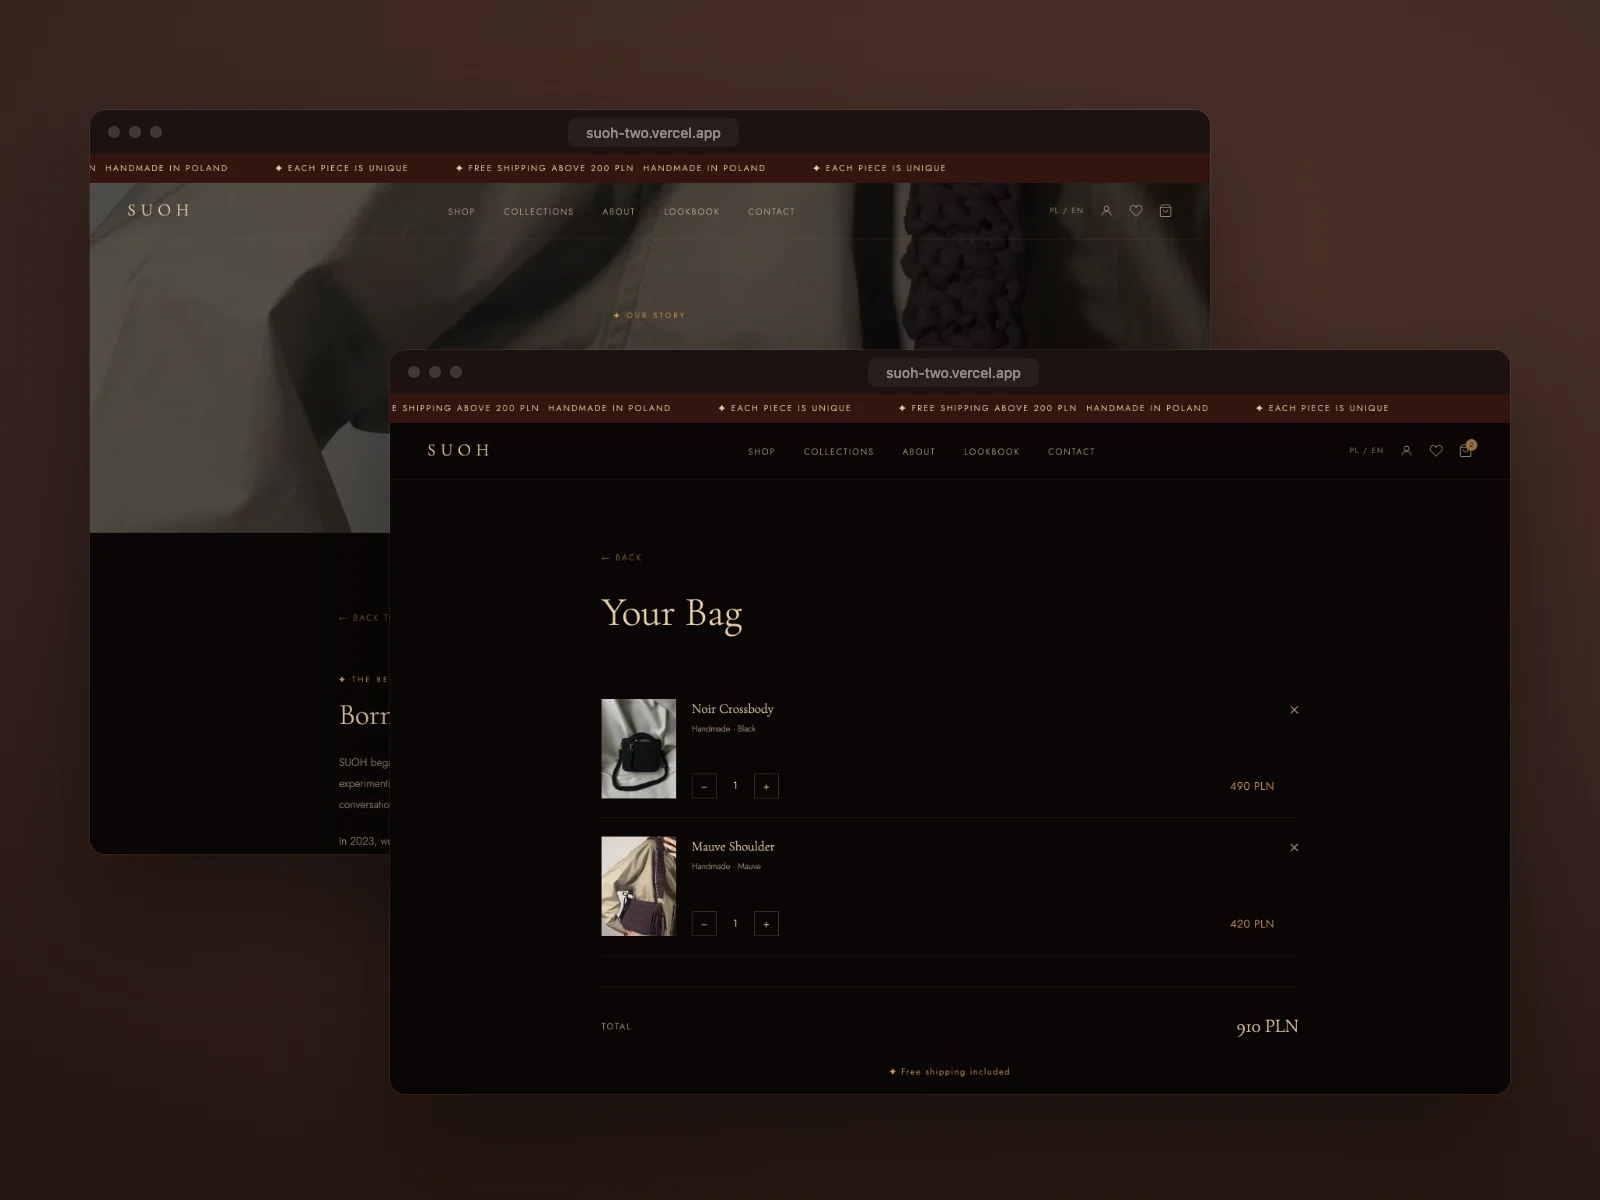
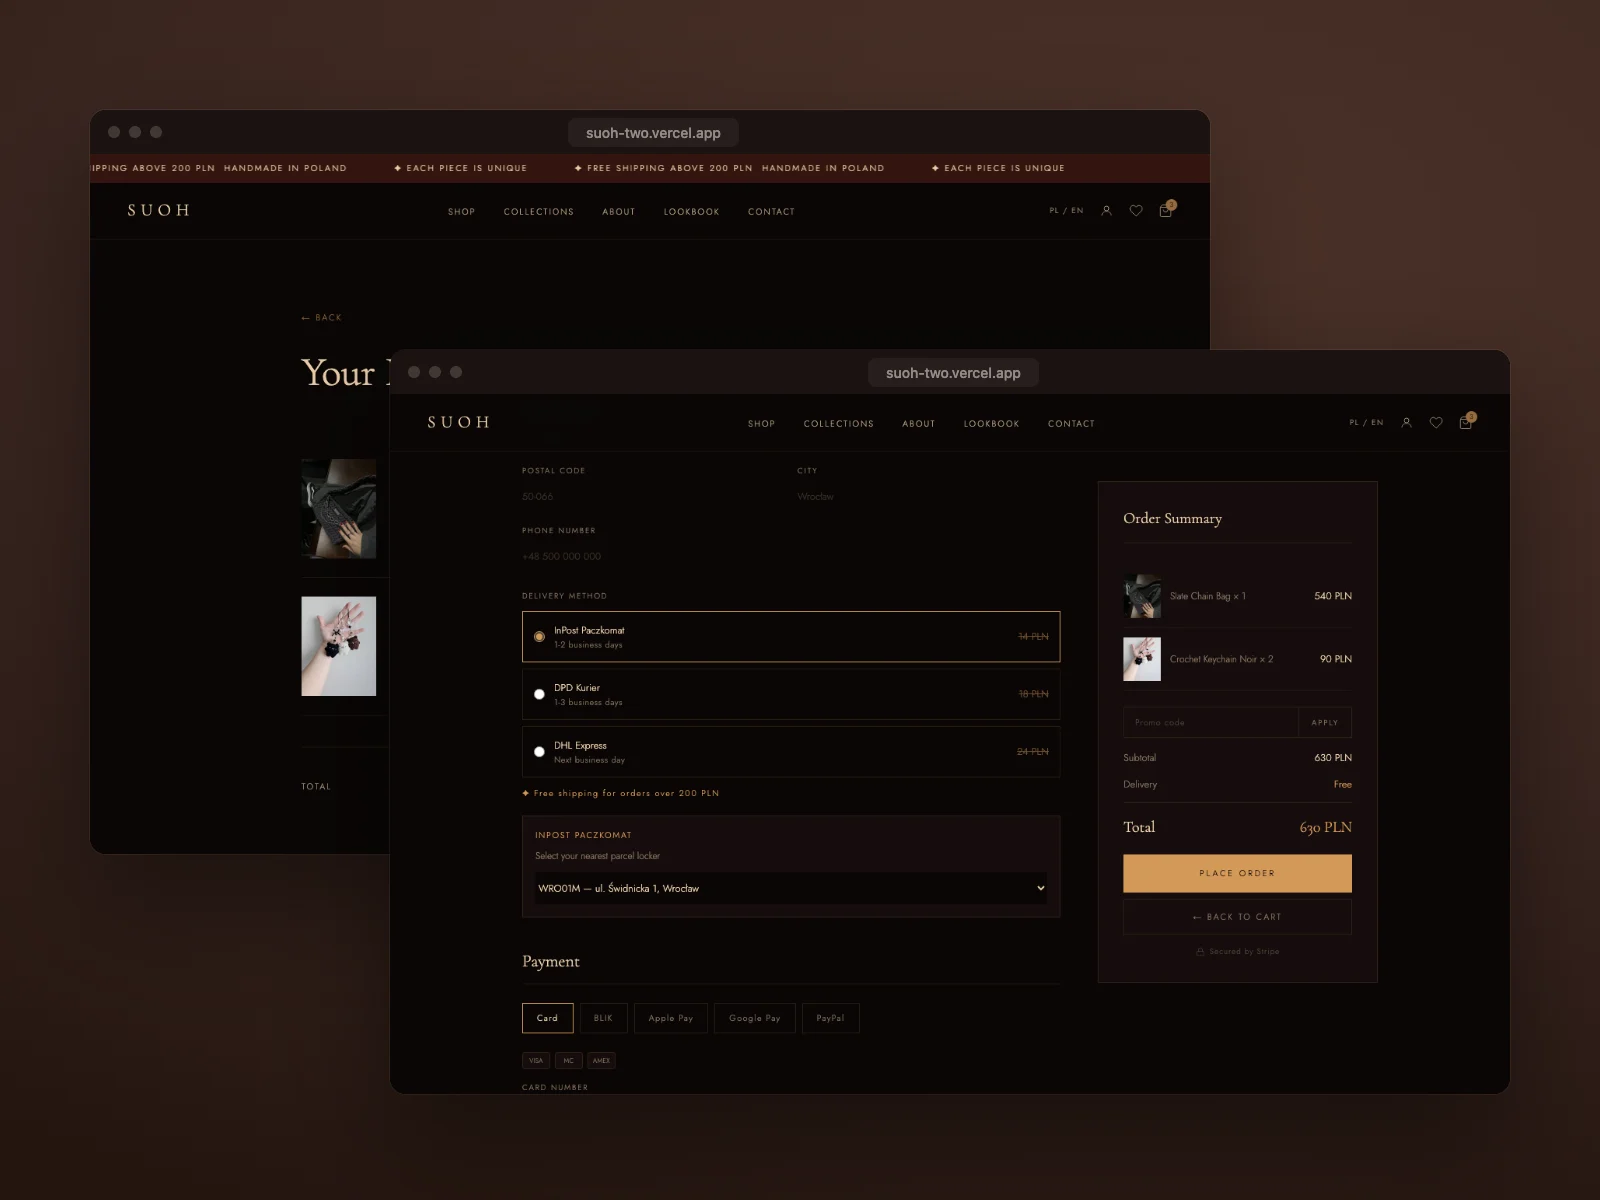
Update the SUOH case study with the brand brief and the checkout

diff --git a/src/cases.js b/src/cases.js
@@ -266,33 +266,34 @@ const RP = {
   },
 };
 
-/* SUOH, the shop for crochet bags. Shots are framed screenshots of
-   suoh-two.vercel.app (public/assets/cases/su); the hero is the site's own
-   first screen with the text hidden, so only the two bags are left. */
+/* SUOH, the shop for crochet bags (github.com/joanise-ux/suoh). Shots are
+   framed screenshots of suoh-two.vercel.app (public/assets/cases/su); the
+   cart and checkout in step 3 come from the project's own screenshots. The
+   cover is the first screen in a browser window. */
 const SU_DIR = "/assets/cases/su";
 const suPic = (file, alt) => ({ src: `${SU_DIR}/${file}`, alt });
 
 const SU = {
   pl: {
-    hero: suPic("su-hero.jpg", "Dwie szydełkowe torebki SUOH: brązowa na kamieniach nad wodą i granatowa na łańcuszku"),
+    hero: suPic("su-hero.jpg", "Pierwszy ekran sklepu SUOH w oknie przeglądarki: brązowa i granatowa torebka z szydełka"),
     meta: [
       ["Klient", "SUOH, Wrocław"],
       ["Rok", "2026"],
       ["Usługi", "UX/UI, e-commerce, front-end"],
-      ["Narzędzia", "Claude"],
+      ["Narzędzia", "Claude, Next.js, React, Tailwind CSS"],
     ],
     link: { label: "zobacz stronę", href: "https://suoh-two.vercel.app/" },
-    lead: "SUOH to jednoosobowa pracownia z Wrocławia, w której każda torebka, brelok i prezent powstają ręcznie na szydełku. Zaprojektowałam dla niej sklep, w którym rękodzieło wygląda jak sztuka, a kupuje się je jak w zwykłym sklepie.",
+    lead: "SUOH to wrocławska marka szydełkowych torebek, breloków i zestawów prezentowych. Każda rzecz powstaje ręcznie, więc każda jest jedyna. Zaprojektowałam i zbudowałam dla niej dwujęzyczny sklep, który wygląda jak butik przy przyciemnionym świetle i prowadzi klientkę od zdjęcia torebki aż do śledzenia paczki.",
     brief: [
-      ["Pytanie", "Jak sprzedawać rzeczy, z których każda jest jedyna, żeby sklep nie wyglądał jak kolejny marketplace z rękodziełem?"],
-      ["Cel", "Ciemna, spokojna strona, na której pierwsze skrzypce grają zdjęcia, a droga od torebki do koszyka zajmuje dwa kliknięcia."],
+      ["Pytanie", "Jak sprzedawać rzeczy, z których każda jest jedyna, żeby sklep czuł się jak cichy butik, a nie kolejny marketplace?"],
+      ["Cel", "Ciemna, ciepła strona, na której prowadzą zdjęcia, a zakupy działają jak w dużym sklepie: po polsku i angielsku, z Paczkomatem i BLIK-iem."],
     ],
     problem: {
-      eyebrow: "o projekcie",
-      title: "Rękodzieło, które nie chce wyglądać na tanie",
+      eyebrow: "o marce",
+      title: "Sztuka, którą nosisz",
       text: [
-        "Projektantka SUOH szydełkuje torebki z jedwabistego sznurka i wykańcza je metalowymi okuciami i własną blaszką z logo. Sprzedaż przez media społecznościowe i portale z rękodziełem sprawiała, że torebka za kilkaset złotych stała obok rzeczy za kilkanaście.",
-        "SUOH to mój projekt własny, zrobiony z myślą o niej. Hasło „Art you can carry”, czyli sztuka, którą nosisz, ustawiło cały kierunek. Projekt, treść i wszystkie decyzje są moje, a stronę złożyłam z pomocą AI, więc od razu działa: ma koszyk, ulubione i konto klienta.",
+        "SUOH szydełkuje torebki z poliestrowego sznurka jedwabnego i wykańcza je metalowymi okuciami i blaszką z logo. W ofercie są cztery torebki za 420–590 zł, breloki za 45 zł i dwa zestawy prezentowe. Marka mówi o sobie „Art you can carry”, czyli sztuka, którą nosisz, i to hasło ustawiło cały kierunek strony.",
+        "Sklep miał oddać charakter marki: ręczną robotę, spokój i ciepły luksus. Miał też przeprowadzić klientkę przez całe zakupy, działać na telefonie i w dwóch językach oraz pasować do polskich przyzwyczajeń, czyli Paczkomatów InPost, kuriera i BLIK-a. Projekt, treść i decyzje są moje, a kod napisałam z pomocą AI.",
       ],
       image: suPic("su-start.webp", "Pierwszy ekran sklepu SUOH na telefonie"),
     },
@@ -301,19 +302,19 @@ const SU = {
       title: "Trzy decyzje, które ułożyły sklep",
       steps: [
         {
-          title: "Ciemna galeria zamiast jasnego katalogu",
-          text: "Tło jest prawie czarne, a sekcje przeplatają się z głębokim brązem w odcieniu octu balsamicznego. Nagłówki są w szeryfowym Cormorant Garamond, drobne napisy w Jost z szerokim odstępem, a miedziany kolor zostaje tylko dla cen i przycisków. Dzięki temu faktura splotu na zdjęciach jest najjaśniejszym, co widać na ekranie.",
+          title: "Butik przy przyciemnionym świetle",
+          text: "Tło jest prawie czarne, sekcje przeplatają się z brązem w odcieniu octu balsamicznego, a tekst ma kolor szampana. Złoty odcień whisky zostaje dla cen, przycisków i cienkich linii zamiast ciężkich ramek. Nagłówki są w szeryfowym Cormorant Garamond, a nawigacja w lekkim Jost z szerokim odstępem. Dzięki temu najjaśniejsza na ekranie jest faktura splotu.",
           image: suPic("su-step-1.webp", "Pierwszy ekran sklepu z dwiema torebkami i hasłem Art you can carry"),
         },
         {
           title: "Karta produktu jak metryczka",
-          text: "W sklepie produkty dzielą się na torebki, breloki i prezenty, a filtry mieszczą się w jednym rzędzie. Na karcie jest nazwa, kolor, cena, z czego torebka jest zrobiona i jakie ma wymiary. Kupująca nie widzi torebki na żywo, więc dostaje wszystko, o co zapytałaby w pracowni.",
+          text: "Sklep dzieli się na torebki, breloki i prezenty, a filtry mieszczą się w jednym rzędzie. Na karcie jest nazwa, kolor, cena, materiał i wymiary. Kupująca nie dotknie torebki, więc dostaje wszystko, o co zapytałaby w pracowni. Koszyk i lista ulubionych działają bez logowania i pamiętają swoją zawartość.",
           image: suPic("su-step-2.webp", "Sklep z filtrami kategorii, a z przodu karta torebki Noir Crossbody po dodaniu do koszyka"),
         },
         {
-          title: "Historia obok koszyka",
-          text: "Strona „O nas” opowiada, jak z wieczorów z szydełkiem powstała pracownia i dlaczego zawsze będzie mała. Kiedy kupująca wie, ile godzin stoi za jedną torebką, cena przestaje dziwić. Koszyk jest prosty: miniatura, ilość, cena i informacja, że od 200 zł wysyłka jest gratis.",
-          image: suPic("su-step-3.webp", "Strona z historią pracowni, a z przodu koszyk z dwiema torebkami"),
+          title: "Zakupy po polsku",
+          text: "Checkout ma Paczkomat InPost z listą paczkomatów, kuriera DPD i DHL, a płatność kartą, BLIK-iem, Apple Pay, Google Pay albo PayPalem. Od 200 zł wysyłka jest gratis. Formularz nie przepuści zamówienia z brakami i mówi, którego pola brakuje. Po zakupie klientka dostaje numer do śledzenia paczki, a na koncie widzi historię zamówień.",
+          image: suPic("su-step-3.webp", "Koszyk, a z przodu checkout z wyborem Paczkomatu InPost i sposobu płatności"),
         },
       ],
     },
@@ -328,30 +329,35 @@ const SU = {
     },
     result: {
       eyebrow: "efekt",
-      title: "Sklep, który traktuje rękodzieło poważnie",
-      text: "SUOH ma działający sklep po polsku i angielsku, z koszykiem, listą ulubionych i kontem klienta. Na telefonie wszystko mieści się w jednej kolumnie i dalej wygląda jak galeria. Na razie to wersja pokazowa, która czeka na płatności i prawdziwe zamówienia.",
+      title: "Butik z pełną ścieżką zakupu",
+      text: "SUOH ma kompletny sklep demonstracyjny: od strony głównej przez kartę produktu, koszyk i checkout po potwierdzenie, śledzenie paczki i konto klientki. Nie przyjmuje jeszcze prawdziwych zamówień, ale jest gotowy na podpięcie płatności, na przykład Przelewy24 albo Stripe z BLIK-iem, i bazy zamówień. Kolejne kroki to panel do dodawania produktów i kilka zdjęć na każdą torebkę.",
+      stats: [
+        ["16", "podstron, od strony głównej po śledzenie paczki"],
+        ["2", "języki, polski i angielski"],
+        ["5", "sposobów płatności, w tym BLIK"],
+      ],
     },
   },
   en: {
-    hero: suPic("su-hero.jpg", "Two SUOH crochet bags: a brown one on rocks by the water and a navy one on a chain"),
+    hero: suPic("su-hero.jpg", "The SUOH shop's first screen in a browser window: a brown and a navy crochet bag"),
     meta: [
       ["Client", "SUOH, Wrocław"],
       ["Year", "2026"],
       ["Services", "UX/UI, e-commerce, front-end"],
-      ["Tools", "Claude"],
+      ["Tools", "Claude, Next.js, React, Tailwind CSS"],
     ],
     link: { label: "see the site", href: "https://suoh-two.vercel.app/" },
-    lead: "SUOH is a one-woman studio in Wrocław, Poland, where every bag, keychain and gift is crocheted by hand. I designed a shop for it where handmade work looks like art and buying it feels like any other shop.",
+    lead: "SUOH is a Wrocław brand of crochet bags, keychains and gift sets. Every piece is made by hand, so every piece is one of a kind. I designed and built a bilingual shop for it that feels like a boutique in low light and takes the customer from a photo of a bag all the way to tracking the parcel.",
     brief: [
-      ["The question", "How do you sell things that are each one of a kind, without the shop looking like yet another handmade marketplace?"],
-      ["The goal", "A dark, calm site where the photos lead, and the way from a bag to the cart takes two clicks."],
+      ["The question", "How do you sell things that are each one of a kind, so the shop feels like a quiet boutique rather than yet another marketplace?"],
+      ["The goal", "A dark, warm site where the photos lead, and shopping works like in a big store: in Polish and English, with parcel lockers and BLIK."],
     ],
     problem: {
-      eyebrow: "overview",
-      title: "Handmade that doesn't want to look cheap",
+      eyebrow: "the brand",
+      title: "Art you can carry",
       text: [
-        "The designer behind SUOH crochets bags from silky cord and finishes them with metal hardware and her own logo plate. Selling through social media and handmade portals meant a bag worth a few hundred złoty stood next to things that cost a few dozen.",
-        "SUOH is a personal project, made with her in mind. The line “Art you can carry” set the whole direction. The design, the copy and every decision are mine, and I put the site together with AI, so it works from day one: it has a cart, a wishlist and a customer account.",
+        "SUOH crochets bags from polyester silk cord and finishes them with metal hardware and a logo plate. The range is four bags at 420–590 PLN, keychains at 45 PLN and two gift sets. The brand's line is “Art you can carry”, and it set the direction for the whole site.",
+        "The shop had to capture the brand's character: handmade, calm, warm luxury. It also had to take the customer through the whole purchase, work on a phone and in two languages, and fit how people shop in Poland, with InPost parcel lockers, couriers and BLIK. The design, the copy and the decisions are mine, and I wrote the code with AI.",
       ],
       image: suPic("su-start.webp", "The first screen of the SUOH shop on a phone"),
     },
@@ -360,19 +366,19 @@ const SU = {
       title: "Three decisions that shaped the shop",
       steps: [
         {
-          title: "A dark gallery instead of a bright catalogue",
-          text: "The background is almost black, and the sections alternate with a deep balsamic brown. Headings are in Cormorant Garamond serif, small labels in widely spaced Jost, and copper is kept for prices and buttons. That way the texture of the stitches in the photos is the brightest thing on the screen.",
+          title: "A boutique in low light",
+          text: "The background is almost black, the sections alternate with a balsamic brown, and the text is champagne. Whiskey gold is kept for prices, buttons and thin hairlines instead of heavy borders. Headings are in Cormorant Garamond serif, and the navigation in light, widely spaced Jost. That way the brightest thing on the screen is the texture of the stitches.",
           image: suPic("su-step-1.webp", "The shop's first screen with two bags and the line Art you can carry"),
         },
         {
           title: "A product card like a label",
-          text: "The shop splits into bags, keychains and gifts, and the filters fit in one row. Each card has the name, colour, price, what the bag is made of and its dimensions. The buyer can't see the bag in person, so she gets everything she'd ask about in the studio.",
+          text: "The shop splits into bags, keychains and gifts, and the filters fit in one row. Each card has the name, colour, price, material and dimensions. The buyer can't touch the bag, so she gets everything she'd ask about in the studio. The cart and wishlist work without signing in and remember what's in them.",
           image: suPic("su-step-2.webp", "The shop with category filters, and in front the Noir Crossbody card after adding it to the cart"),
         },
         {
-          title: "The story next to the cart",
-          text: "The About page tells how evenings with a crochet hook turned into a studio, and why it will always stay small. Once a buyer knows how many hours go into one bag, the price stops being a surprise. The cart is simple: a thumbnail, the quantity, the price and a note that shipping is free above 200 PLN.",
-          image: suPic("su-step-3.webp", "The studio's story page, and in front the cart with two bags"),
+          title: "Shopping the Polish way",
+          text: "Checkout offers an InPost parcel locker picked from a list, DPD and DHL couriers, and payment by card, BLIK, Apple Pay, Google Pay or PayPal. Shipping is free above 200 PLN. The form won't let an incomplete order through and names the field that's missing. After the purchase the customer gets a tracking number, and her account shows her order history.",
+          image: suPic("su-step-3.webp", "The cart, and in front the checkout with an InPost parcel locker and payment options"),
         },
       ],
     },
@@ -387,8 +393,13 @@ const SU = {
     },
     result: {
       eyebrow: "outcome",
-      title: "A shop that takes handmade seriously",
-      text: "SUOH has a working shop in Polish and English, with a cart, a wishlist and a customer account. On a phone everything fits in one column and still looks like a gallery. For now it's a demo version, waiting for payments and real orders.",
+      title: "A boutique with the whole purchase flow",
+      text: "SUOH has a complete demo shop: from the home page through the product card, cart and checkout to the confirmation, parcel tracking and customer account. It doesn't take real orders yet, but it's ready for payments, for example Przelewy24 or Stripe with BLIK, and an order database. Next up are a panel for adding products and several photos for each bag.",
+      stats: [
+        ["16", "pages, from the home page to parcel tracking"],
+        ["2", "languages, Polish and English"],
+        ["5", "payment methods, BLIK included"],
+      ],
     },
   },
 };
